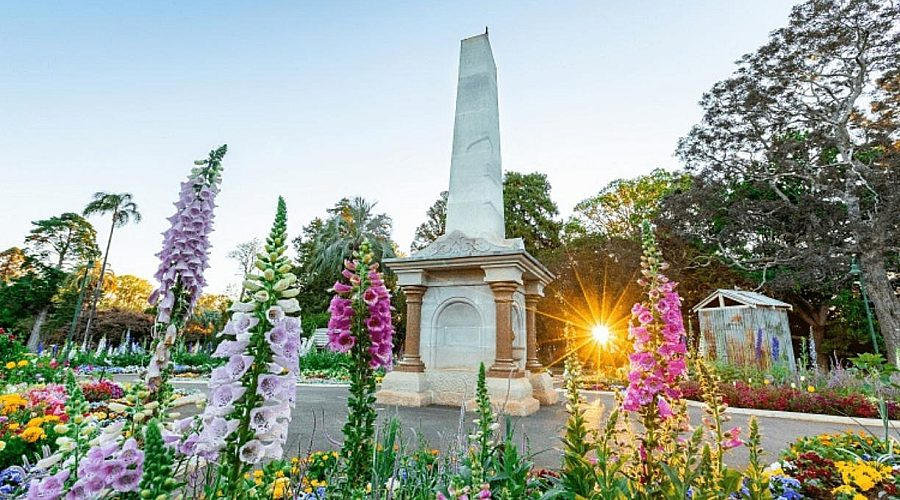
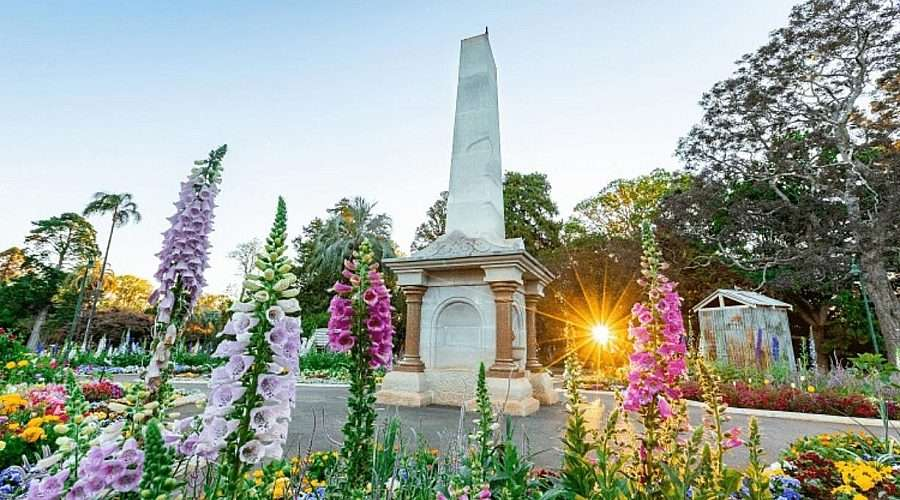
photo size compress

diff --git a/pages/area/area.html b/pages/area/area.html
@@ -50,7 +50,7 @@
                 </div>
             </div>
             <div class="card">
-                <img src="goldcoast.jpeg" alt="NSW">
+                <img src="goldcoast.jpg" alt="NSW">
                 <div class="card-text">
                     <h3>469099 Stations</h3>
                     <p><a href="">NSW</a>  (not open)</p>
